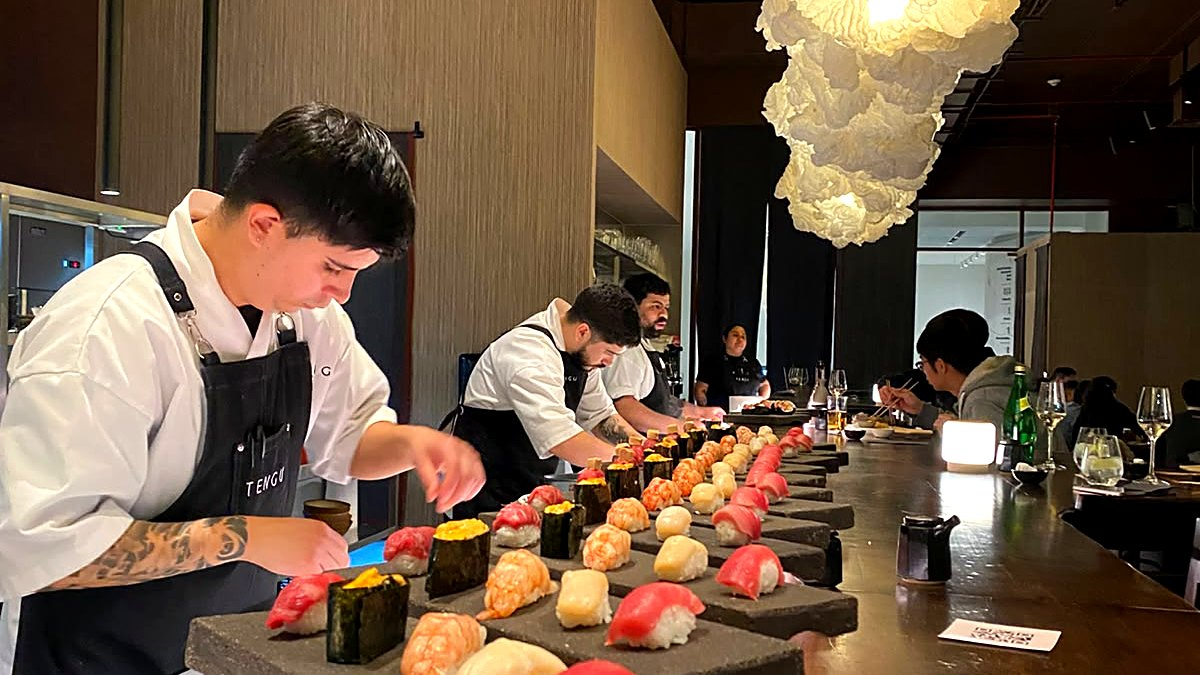
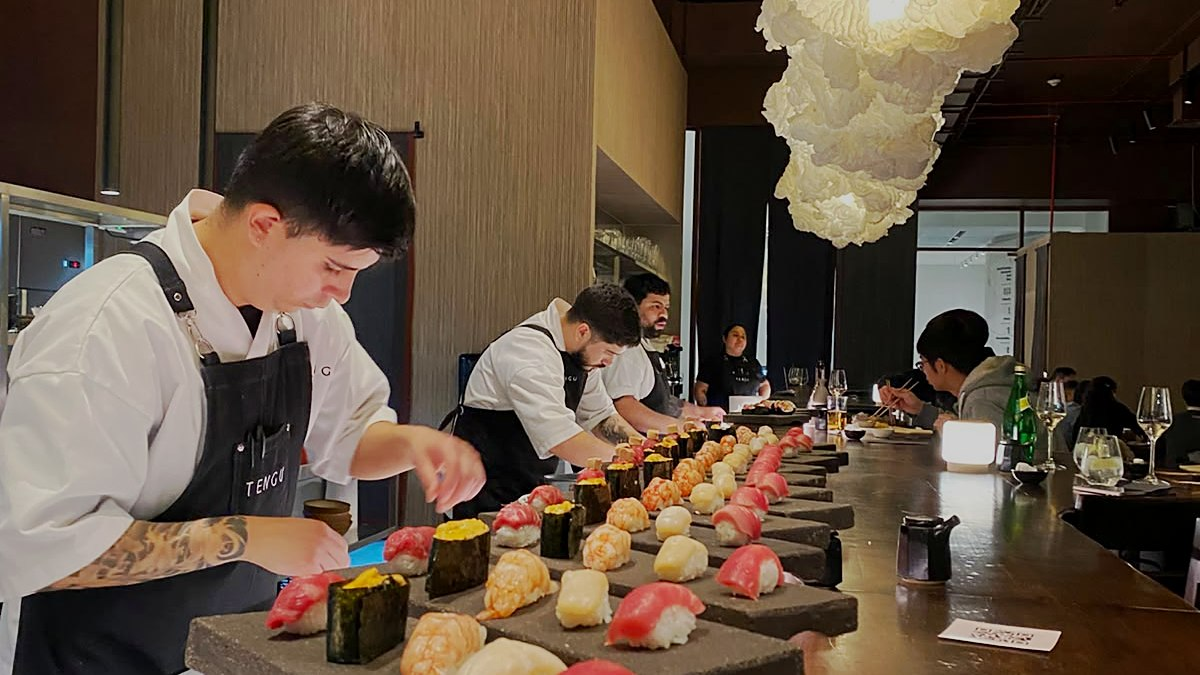
Hero sin reventar, y el mosaico a cuatro fotos como máximo
EL HERO ESTABA QUEMADO. El realce que le apliqué a todas las fotos le subió
luz a una que ya tenía las altas al tope: los píxeles sobre 250 pasaron de
0,50% a 1,39%, casi el triple, y la chaqueta blanca del itamae se comía el
tercio izquierdo. La página oscurece parejo con brightness(.35), así que el
blanco quemado seguía siendo el punto más claro del cuadro y el título perdía
contraste.

Ahora el hero se procesa aparte: sin subir brillo y con una curva que
comprime todo lo que pasa de 150 hacia 205, así la chaqueta conserva textura.
Quedó en 0,00% de píxeles quemados. Encima va un velo —radial al centro para
el título, y a los bordes de arriba y abajo— porque oscurecer parejo no
resuelve un punto claro puntual.

MOSAICO A CUATRO. Se midió la galería de Omakase que sirvió de referencia: su
grande es exactamente el doble de una chica, todas las celdas comparten
proporción (1,51 y 1,53) y el gap es de 4px; sus fotos vienen apaisadas en
1,68, casi la proporción de la celda, y por eso recortan poquísimo y las
imágenes descansan entre sí.

Ese mosaico no se puede calcar acá: nuestras fotos son verticales, y la misma
geometría a ancho completo daría un bloque de 933px de alto. Lo que sí se
copia es el principio —una sola proporción, tamaños parejos, gap de 4px— y el
gesto de mostrar menos de las que hay: van cuatro y el botón anuncia el total,
como su "Show all photos (6)" sobre cinco visibles. Con cinco en fila las
tiras se angostaban.

diff --git a/index.html b/index.html
@@ -368,7 +368,12 @@ footer{padding:52px 48px 32px;border-top:1px solid rgba(200,146,26,.09);display:
 
 /* ── HERO VIDEO/PHOTO BG ── */
 .hero-photo{position:absolute;inset:0;z-index:0}
-.hero-photo img{width:100%;height:100%;object-fit:cover;filter:brightness(.35)}
+.hero-photo img{width:100%;height:100%;object-fit:cover;filter:brightness(.42) saturate(.95)}
+/* Velo sobre la foto: el oscurecimiento parejo dejaba la chaqueta blanca del
+   itamae como el punto más claro del cuadro y el título perdía contraste. */
+.hero-photo::after{content:"";position:absolute;inset:0;pointer-events:none;
+  background:radial-gradient(ellipse 70% 60% at 50% 52%,rgba(6,5,3,.72) 0%,rgba(6,5,3,.30) 55%,transparent 100%),
+             linear-gradient(180deg,rgba(6,5,3,.55) 0%,transparent 28%,transparent 64%,rgba(6,5,3,.72) 100%)}
 
 /* ── GALLERY WITH REAL PHOTOS ── */
 .photo-gallery{padding:0;background:var(--black)}
@@ -700,7 +705,7 @@ footer{padding:52px 48px 32px;border-top:1px solid rgba(200,146,26,.09);display:
 
   <div class="menu-cat" id="cat-caliente"><div class="menu-portada">
   <div class="mp-txt"><h2>Cocina Caliente</h2><p>21 platos</p></div>
-  <div class="mz mz-n5" data-fotos='[{"s":"fotos/okonomiyaki.jpg","a":"Okonomiyaki"},{"s":"fotos/almejas-gratinadas.jpg","a":"Gratinados de la cocina caliente"},{"s":"fotos/donburi.jpg","a":"Donburi de pesca del día"},{"s":"fotos/chirashi.jpg","a":"Kaisen don"},{"s":"fotos/almejas-limon.jpg","a":"Asari al sake"}]'><button class="mz-celda mz-grande" type="button" data-i="0" aria-label="Ver Okonomiyaki"><img loading="lazy" src="fotos/okonomiyaki.jpg" srcset="fotos/okonomiyaki-800.jpg 600w, fotos/okonomiyaki.jpg 1200w" sizes="(max-width:720px) 100vw, 46vw" alt="Okonomiyaki"></button><button class="mz-celda" type="button" data-i="1" aria-label="Ver Gratinados de la cocina caliente"><img loading="lazy" src="fotos/almejas-gratinadas.jpg" srcset="fotos/almejas-gratinadas-800.jpg 600w, fotos/almejas-gratinadas.jpg 1200w" sizes="(max-width:720px) 50vw, 23vw" alt="Gratinados de la cocina caliente"></button><button class="mz-celda" type="button" data-i="2" aria-label="Ver Donburi de pesca del día"><img loading="lazy" src="fotos/donburi.jpg" srcset="fotos/donburi-800.jpg 800w, fotos/donburi.jpg 1600w" sizes="(max-width:720px) 50vw, 23vw" alt="Donburi de pesca del día"></button><button class="mz-celda" type="button" data-i="3" aria-label="Ver Kaisen don"><img loading="lazy" src="fotos/chirashi.jpg" srcset="fotos/chirashi-800.jpg 800w, fotos/chirashi.jpg 1600w" sizes="(max-width:720px) 50vw, 23vw" alt="Kaisen don"></button><button class="mz-celda" type="button" data-i="4" aria-label="Ver Asari al sake"><img loading="lazy" src="fotos/almejas-limon.jpg" srcset="fotos/almejas-limon-800.jpg 600w, fotos/almejas-limon.jpg 1200w" sizes="(max-width:720px) 50vw, 23vw" alt="Asari al sake"><span class="mz-todas">Ver las 5</span></button></div>
+  <div class="mz mz-n4" data-fotos='[{"s":"fotos/okonomiyaki.jpg","a":"Okonomiyaki"},{"s":"fotos/almejas-gratinadas.jpg","a":"Gratinados de la cocina caliente"},{"s":"fotos/donburi.jpg","a":"Donburi de pesca del día"},{"s":"fotos/chirashi.jpg","a":"Kaisen don"},{"s":"fotos/almejas-limon.jpg","a":"Asari al sake"}]'><button class="mz-celda mz-grande" type="button" data-i="0" aria-label="Ver Okonomiyaki"><img loading="lazy" src="fotos/okonomiyaki.jpg" srcset="fotos/okonomiyaki-800.jpg 600w, fotos/okonomiyaki.jpg 1200w" sizes="(max-width:720px) 100vw, 46vw" alt="Okonomiyaki"></button><button class="mz-celda" type="button" data-i="1" aria-label="Ver Gratinados de la cocina caliente"><img loading="lazy" src="fotos/almejas-gratinadas.jpg" srcset="fotos/almejas-gratinadas-800.jpg 600w, fotos/almejas-gratinadas.jpg 1200w" sizes="(max-width:720px) 50vw, 23vw" alt="Gratinados de la cocina caliente"></button><button class="mz-celda" type="button" data-i="2" aria-label="Ver Donburi de pesca del día"><img loading="lazy" src="fotos/donburi.jpg" srcset="fotos/donburi-800.jpg 800w, fotos/donburi.jpg 1600w" sizes="(max-width:720px) 50vw, 23vw" alt="Donburi de pesca del día"></button><button class="mz-celda" type="button" data-i="3" aria-label="Ver Kaisen don"><img loading="lazy" src="fotos/chirashi.jpg" srcset="fotos/chirashi-800.jpg 800w, fotos/chirashi.jpg 1600w" sizes="(max-width:720px) 50vw, 23vw" alt="Kaisen don"><span class="mz-todas">Ver las 5</span></button></div>
 </div><div class="menu-grid">
     <div class="menu-subcat">Tempuras</div>
     <div class="menu-item"><div class="menu-item-top"><div><div class="menu-item-name">Langostinos</div><div class="menu-item-jp">エビ</div></div><div class="menu-item-price">$18.900</div></div><div class="menu-item-desc">Langostinos tempurizados 5 unidades</div><div class="menu-item-yokai">Recomendación del chef</div></div>
@@ -1209,7 +1214,7 @@ footer{padding:52px 48px 32px;border-top:1px solid rgba(200,146,26,.09);display:
    recortaría a una franja, y con 4 dejaba un hueco en la grilla de 3x2. Van en
    tiras verticales parejas: misma proporción que la foto, cero recorte, sin huecos.
    El ancho se limita para que con 2 fotos no queden gigantes. */
-.mz{display:grid;gap:5px;grid-template-columns:repeat(var(--n),1fr);max-width:min(100%,calc(var(--n) * 310px))}
+.mz{display:grid;gap:4px;grid-template-columns:repeat(var(--n),1fr);max-width:min(100%,calc(var(--n) * 310px))}
 .mz-n1{--n:1}.mz-n2{--n:2}.mz-n3{--n:3}.mz-n4{--n:4}.mz-n5{--n:5}
 .mz-celda{position:relative;overflow:hidden;padding:0;border:0;background:var(--dark2);cursor:pointer;display:block;aspect-ratio:3/4}
 .mz-celda img{width:100%;height:100%;object-fit:cover;display:block;filter:brightness(.88);transition:filter .4s,transform .6s}

diff --git a/carta.html b/carta.html
@@ -99,7 +99,7 @@ a{color:inherit}
    recortaría a una franja, y con 4 dejaba un hueco en la grilla de 3x2. Van en
    tiras verticales parejas: misma proporción que la foto, cero recorte, sin huecos.
    El ancho se limita para que con 2 fotos no queden gigantes. */
-.mz{display:grid;gap:5px;grid-template-columns:repeat(var(--n),1fr);max-width:min(100%,calc(var(--n) * 310px))}
+.mz{display:grid;gap:4px;grid-template-columns:repeat(var(--n),1fr);max-width:min(100%,calc(var(--n) * 310px))}
 .mz-n1{--n:1}.mz-n2{--n:2}.mz-n3{--n:3}.mz-n4{--n:4}.mz-n5{--n:5}
 .mz-celda{position:relative;overflow:hidden;padding:0;border:0;background:var(--dark2);cursor:pointer;display:block;aspect-ratio:3/4}
 .mz-celda img{width:100%;height:100%;object-fit:cover;display:block;filter:brightness(.88);transition:filter .4s,transform .6s}
@@ -226,7 +226,7 @@ a{color:inherit}
 <div class="menu-item"><div class="menu-item-top"><div><div class="menu-item-name">Sake Spicy (1 unid.)</div><div class="menu-item-jp">辛い酒</div></div><div class="menu-item-price">$7.900</div></div><div class="menu-item-desc">Tártaro de salmón sutil picante.</div></div></div></div></div>
 <div class="menu-cat" id="cat-caliente"><div class="menu-portada">
   <div class="mp-txt"><h2>Cocina Caliente</h2><p>21 platos</p></div>
-  <div class="mz mz-n5" data-fotos='[{"s":"fotos/okonomiyaki.jpg","a":"Okonomiyaki"},{"s":"fotos/almejas-gratinadas.jpg","a":"Gratinados de la cocina caliente"},{"s":"fotos/donburi.jpg","a":"Donburi de pesca del día"},{"s":"fotos/chirashi.jpg","a":"Kaisen don"},{"s":"fotos/almejas-limon.jpg","a":"Asari al sake"}]'><button class="mz-celda mz-grande" type="button" data-i="0" aria-label="Ver Okonomiyaki"><img loading="lazy" src="fotos/okonomiyaki.jpg" srcset="fotos/okonomiyaki-800.jpg 600w, fotos/okonomiyaki.jpg 1200w" sizes="(max-width:720px) 100vw, 46vw" alt="Okonomiyaki"></button><button class="mz-celda" type="button" data-i="1" aria-label="Ver Gratinados de la cocina caliente"><img loading="lazy" src="fotos/almejas-gratinadas.jpg" srcset="fotos/almejas-gratinadas-800.jpg 600w, fotos/almejas-gratinadas.jpg 1200w" sizes="(max-width:720px) 50vw, 23vw" alt="Gratinados de la cocina caliente"></button><button class="mz-celda" type="button" data-i="2" aria-label="Ver Donburi de pesca del día"><img loading="lazy" src="fotos/donburi.jpg" srcset="fotos/donburi-800.jpg 800w, fotos/donburi.jpg 1600w" sizes="(max-width:720px) 50vw, 23vw" alt="Donburi de pesca del día"></button><button class="mz-celda" type="button" data-i="3" aria-label="Ver Kaisen don"><img loading="lazy" src="fotos/chirashi.jpg" srcset="fotos/chirashi-800.jpg 800w, fotos/chirashi.jpg 1600w" sizes="(max-width:720px) 50vw, 23vw" alt="Kaisen don"></button><button class="mz-celda" type="button" data-i="4" aria-label="Ver Asari al sake"><img loading="lazy" src="fotos/almejas-limon.jpg" srcset="fotos/almejas-limon-800.jpg 600w, fotos/almejas-limon.jpg 1200w" sizes="(max-width:720px) 50vw, 23vw" alt="Asari al sake"><span class="mz-todas">Ver las 5</span></button></div>
+  <div class="mz mz-n4" data-fotos='[{"s":"fotos/okonomiyaki.jpg","a":"Okonomiyaki"},{"s":"fotos/almejas-gratinadas.jpg","a":"Gratinados de la cocina caliente"},{"s":"fotos/donburi.jpg","a":"Donburi de pesca del día"},{"s":"fotos/chirashi.jpg","a":"Kaisen don"},{"s":"fotos/almejas-limon.jpg","a":"Asari al sake"}]'><button class="mz-celda mz-grande" type="button" data-i="0" aria-label="Ver Okonomiyaki"><img loading="lazy" src="fotos/okonomiyaki.jpg" srcset="fotos/okonomiyaki-800.jpg 600w, fotos/okonomiyaki.jpg 1200w" sizes="(max-width:720px) 100vw, 46vw" alt="Okonomiyaki"></button><button class="mz-celda" type="button" data-i="1" aria-label="Ver Gratinados de la cocina caliente"><img loading="lazy" src="fotos/almejas-gratinadas.jpg" srcset="fotos/almejas-gratinadas-800.jpg 600w, fotos/almejas-gratinadas.jpg 1200w" sizes="(max-width:720px) 50vw, 23vw" alt="Gratinados de la cocina caliente"></button><button class="mz-celda" type="button" data-i="2" aria-label="Ver Donburi de pesca del día"><img loading="lazy" src="fotos/donburi.jpg" srcset="fotos/donburi-800.jpg 800w, fotos/donburi.jpg 1600w" sizes="(max-width:720px) 50vw, 23vw" alt="Donburi de pesca del día"></button><button class="mz-celda" type="button" data-i="3" aria-label="Ver Kaisen don"><img loading="lazy" src="fotos/chirashi.jpg" srcset="fotos/chirashi-800.jpg 800w, fotos/chirashi.jpg 1600w" sizes="(max-width:720px) 50vw, 23vw" alt="Kaisen don"><span class="mz-todas">Ver las 5</span></button></div>
 </div><div class="menu-grid"><div class="menu-subcat open" data-count="4" onclick="this.classList.toggle('open')">Tempuras</div><div class="subcat-body">
 <div class="menu-item"><div class="menu-item-top"><div><div class="menu-item-name">Langostinos</div><div class="menu-item-jp">エビ</div></div><div class="menu-item-price">$18.900</div></div><div class="menu-item-desc">Langostinos tempurizados 5 unidades</div><div class="menu-item-yokai">Recomendación del chef</div></div>
 <div class="menu-item"><div class="menu-item-top"><div><div class="menu-item-name">Veggie</div><div class="menu-item-jp">ベジー</div></div><div class="menu-item-price">$9.990</div></div><div class="menu-item-desc">Mix de vegetales de temporada y salsa tradicional tempura.</div><div class="menu-item-yokai">Espíritu del Ryujin — dos tesoros del mar</div></div>
